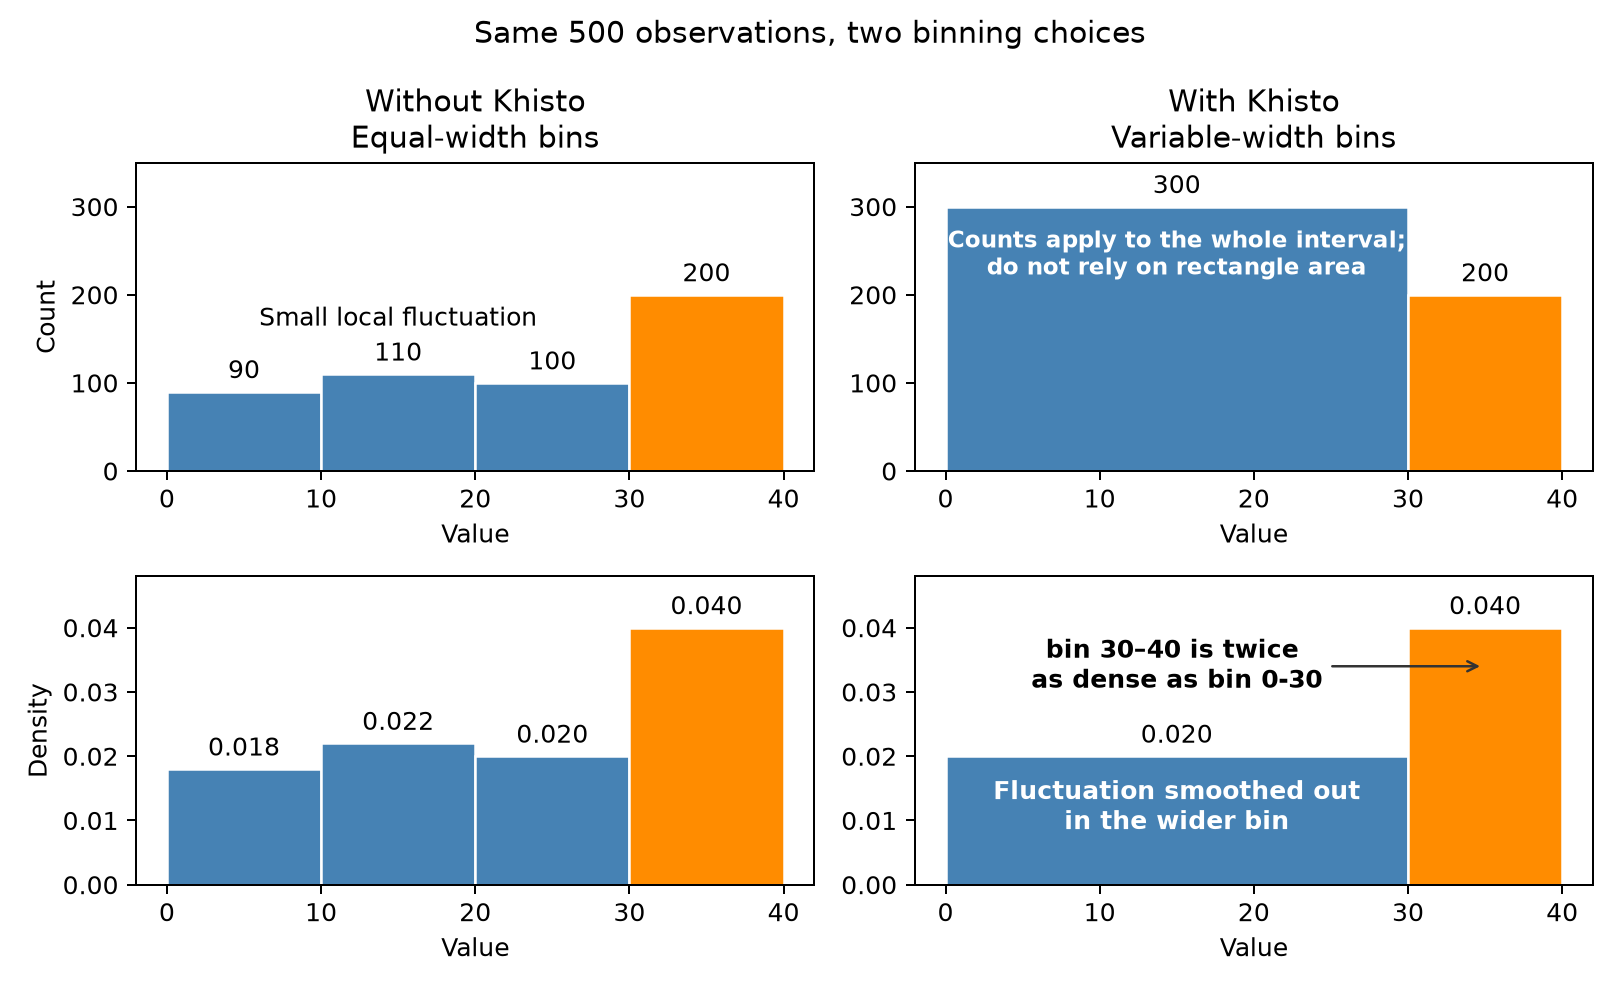
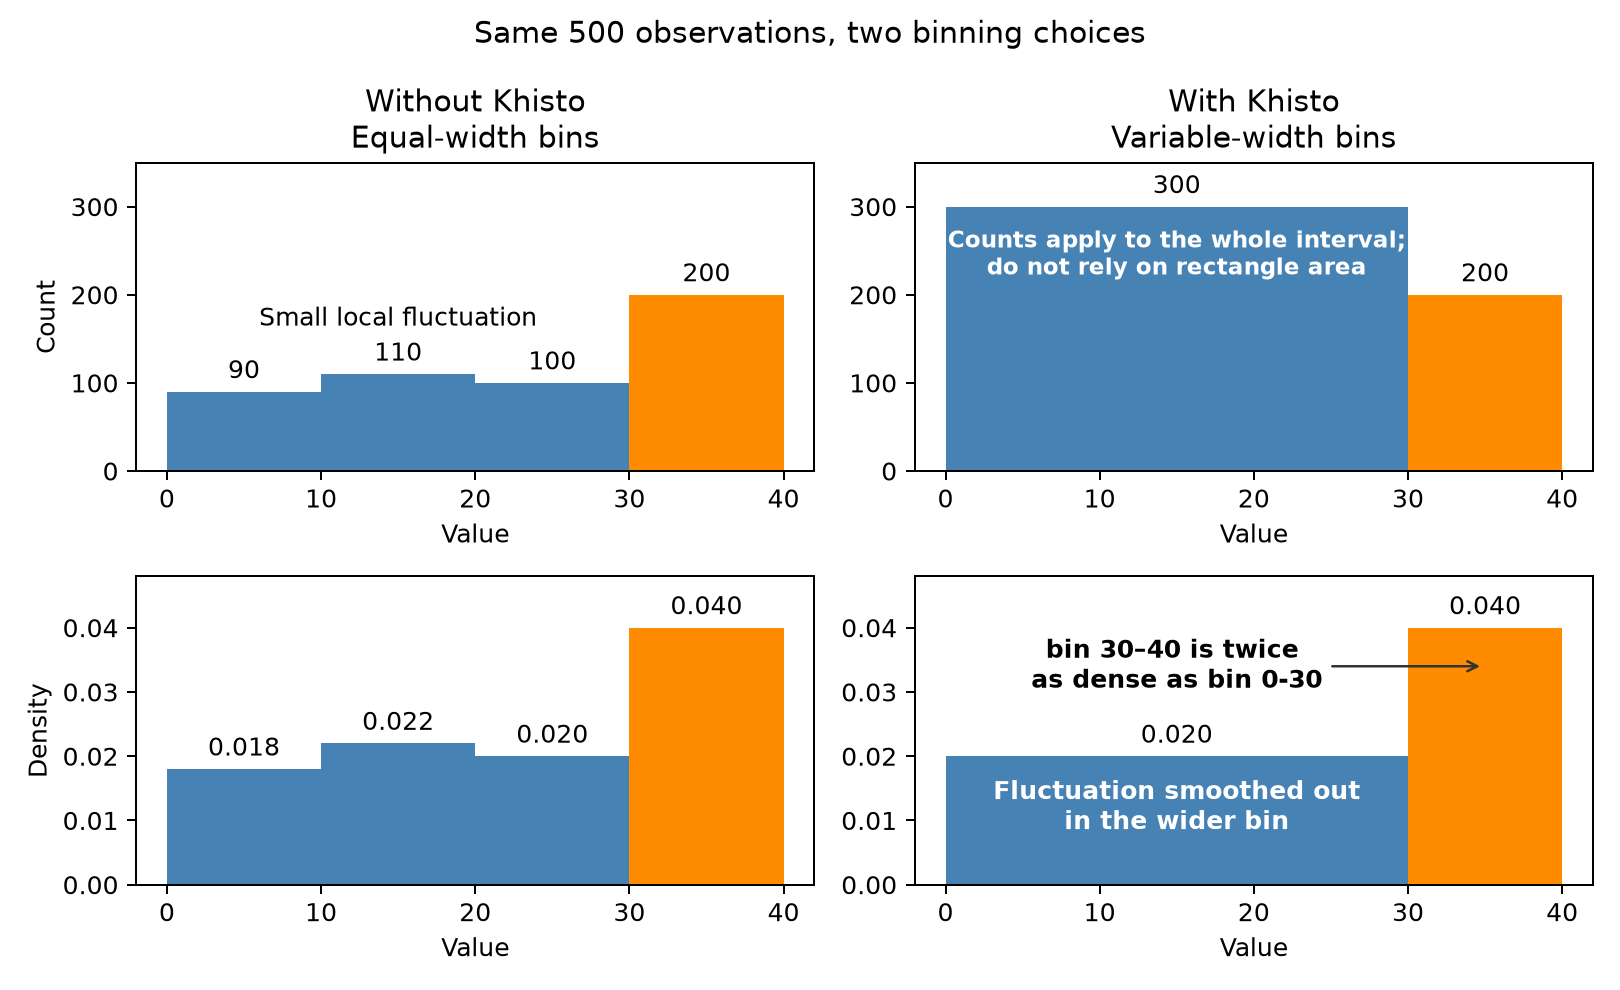
docs: supprimer les contours blancs et régénérer les graphiques

diff --git a/scripts/generate_distribution_examples.py b/scripts/generate_distribution_examples.py
@@ -59,11 +59,9 @@ def save_counts_density_comparison_figure(output_path: Path) -> None:
         colors = ["darkorange" if edge >= 30 else "steelblue" for edge in edges[:-1]]
         count_bars = axes[0, column].bar(
             edges[:-1], counts, width=widths, align="edge", color=colors,
-            edgecolor="white",
         )
         density_bars = axes[1, column].bar(
             edges[:-1], densities, width=widths, align="edge", color=colors,
-            edgecolor="white",
         )
         axes[0, column].bar_label(count_bars, labels=[str(count) for count in counts], padding=3)
         axes[1, column].bar_label(
